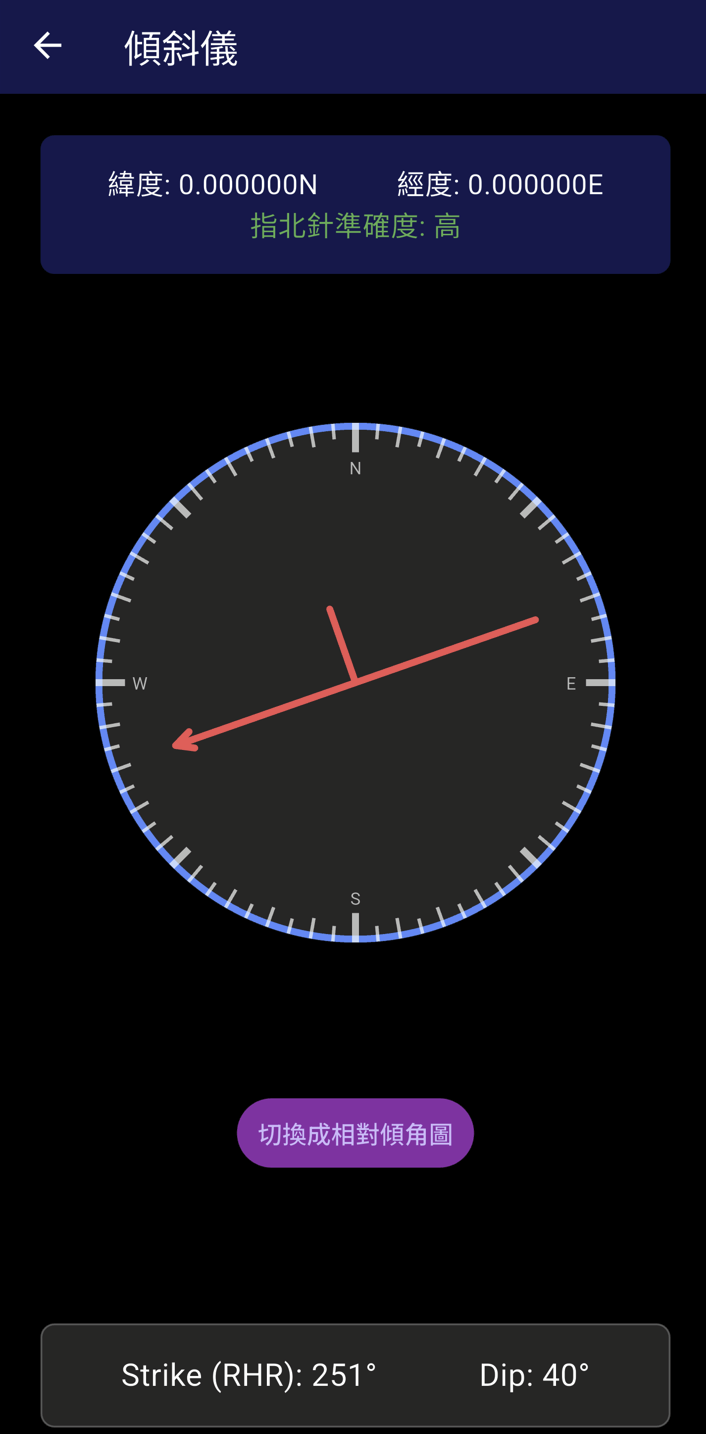
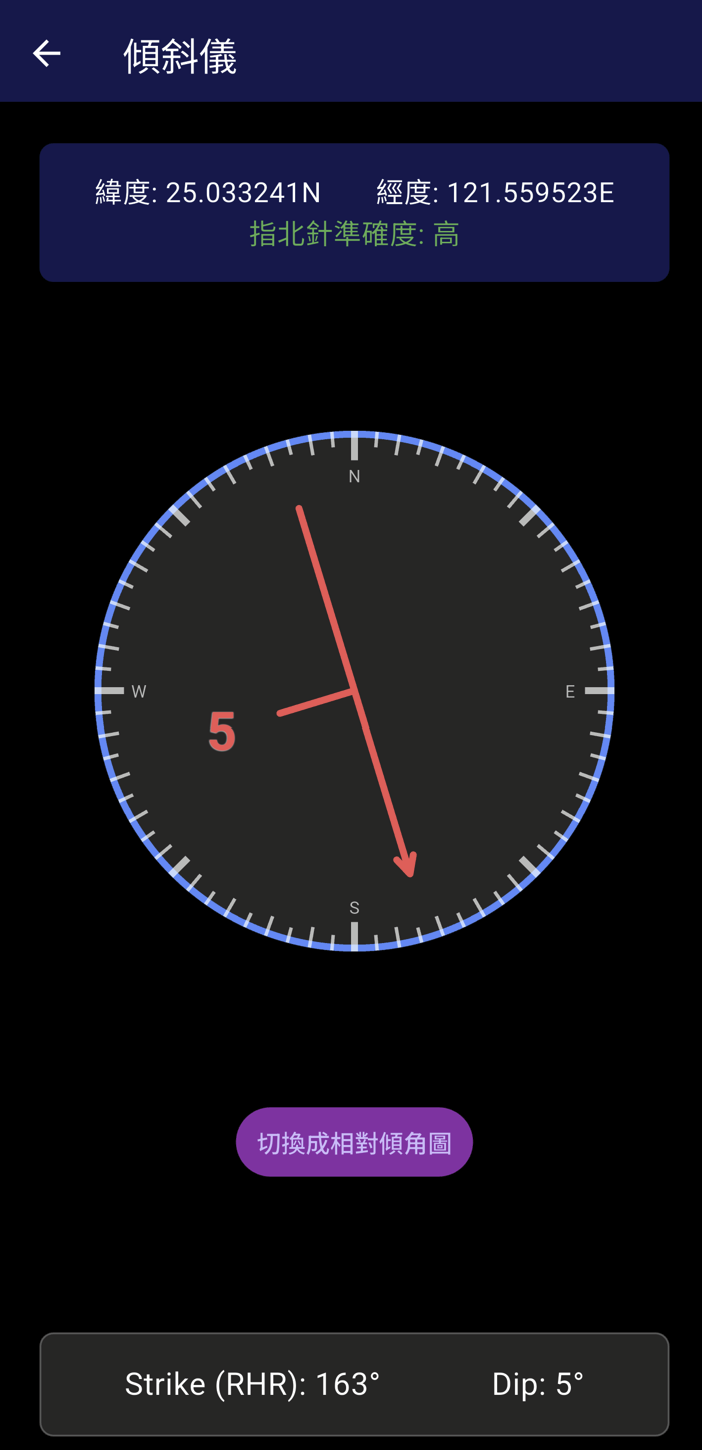
update readme & assets

diff --git a/README.md b/README.md
@@ -22,11 +22,13 @@
 
 - **🏠 主畫面資訊:** 主畫面直觀呈現當前位置的地質狀況。
 - **🌏 地質圖瀏覽:** 使用地礦中心的開放地質圖API，疊圖在地圖上，掌握即時附近的地質組成。
+- **⬆ 方向指示線:** 將指北針測得之前方方位繪製成方向指示線，閱讀直觀。
 - **🔍 地質圖查詢:** 點擊地圖可直接調閱該區塊的地層細節與面頁位態數據。
 - **🧭 智慧傾斜儀:** 透過手機量測岩層傾角，系統自動校準傾向，省去調整手機角度的動作。
 - **🗺 絕對傾斜儀:** 切換至絕對傾斜模式後，圖形直接對齊地圖方位，簡化繪圖流程。
 
 ## 🖼 範例截圖
+
 <table>
   <tr>
     <td align="center">
@@ -38,7 +40,7 @@
       <b>資訊調閱</b>
     </td>
   </tr>
-    <tr>
+  <tr>
     <td align="center">
       <img src="./assets/relative.png" width="49%" alt="相對傾斜儀"><br>
       <b>相對傾斜儀</b>
@@ -48,31 +50,48 @@
       <b>絕對傾斜儀</b>
     </td>
   </tr>
+
+  <tr>
+    <td align="center">
+      <img src="./assets/map2.png" width="49%" alt="相對傾斜儀"><br>
+      <b>指向線</b>
+    </td>
+  </tr>
 </table>
 
 ## 📦 安裝
+
 ### 使用現成的安裝檔
+
 > [!NOTE]
 > 目前僅支援Android手機，ios版本目前正在嘗試編譯中
-> 
+>
 > 若您真的需要ios版本，請自行編譯
-1. 到[Release](https://github.com/KnowScratcher/TwGeoTool/releases)，點開最新版的`Assets`，下載適合您系統的APK。
+
+1. 到[Release](https://github.com/KnowScratcher/TwGeoTool/releases)，點開最新版的`Assets`
+   ，下載適合您系統的APK。
 2. 打開AKP來安裝。
 
 ### 自行編譯
+
 > [!NOTE]
 > 若想要自行編譯，請先安裝[Flutter](https://docs.flutter.dev/install)。
+
 1. 複製專案到電腦
+
 ```bash
 git clone https://github.com/KnowScratcher/TwGeoTool/
 cd TwGeoTool
 ```
+
 2. 編譯檔案
+
 ```bash
 flutter build apk # 編譯適用全部安卓的APK
 flutter build apk --split-per-abi # 編譯更小的安卓的APK(需選擇安裝檔案)
 flutter build ios # 編譯IOS的APP
 ```
+
 編譯結束後可以從訊息中查看執行檔位置。
 
 ## 🤝 貢獻
@@ -89,7 +108,8 @@ flutter build ios # 編譯IOS的APP
 
 ## 🐛 發現bug嗎
 
-如果你遇到bug, 請先檢查 [Issues](https://github.com/KnowScratcher/TwGeoTool/issues)。若這個不是已被回報問題，請按下`New Issue`:
+如果你遇到bug, 請先檢查 [Issues](https://github.com/KnowScratcher/TwGeoTool/issues)。若這個不是已被回報問題，請按下
+`New Issue`:
 
 在回報的過程中，請注意:
 
